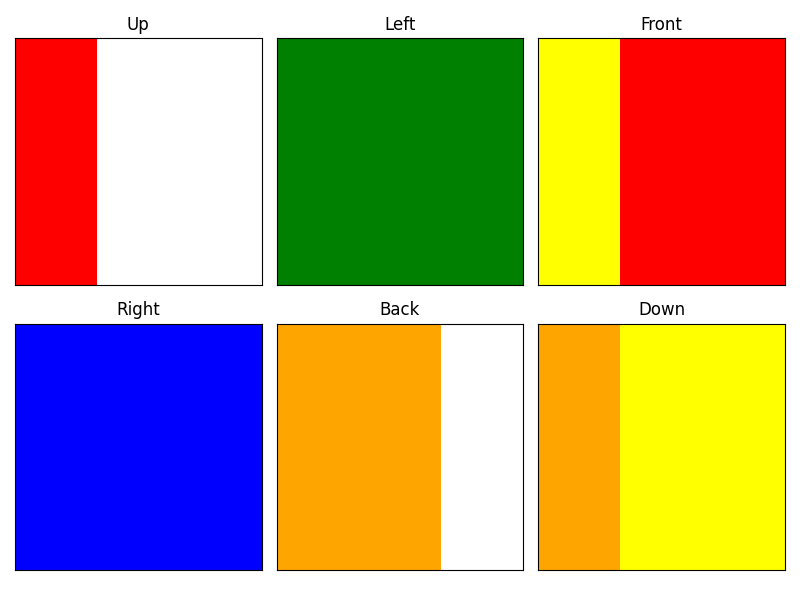
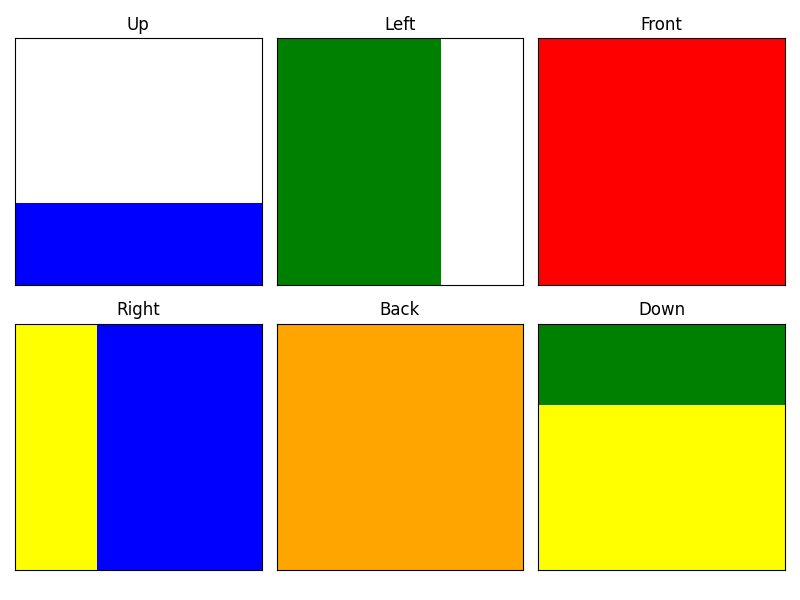
Checkpoint before assistant change: Fix Rubik's Cube scrambling algorithm
Replit-Commit-Author: Assistant

diff --git a/main.py b/main.py
@@ -146,7 +146,7 @@ def main():
     # 创建魔方实例（初始为已解决状态）
     cube = SimpleRubiksCube()
     # 定义打乱公式，例如 "R U R' U'"
-    algorithm = "L"
+    algorithm = "F"
     print("应用公式:", algorithm)
     cube.apply_algorithm(algorithm)
 
